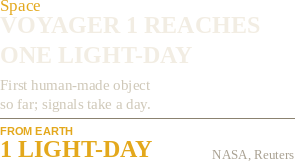
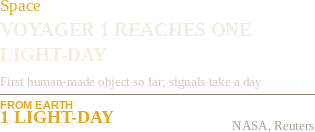
Crop hero: heads and handshake whole (976x420)

Changed region(s): [[0.0, 0.0, 1.0, 1.0], [0.7017, 0.9091, 1.0, 1.0], [0.8542, 0.1515, 0.8847, 0.1818]]

diff --git a/main.py b/main.py
@@ -18,51 +18,51 @@ RED = (192, 57, 43)
 RED_HI = (231, 76, 60)
 
 PHOTOS = [
-    ("hero_976x312.png", 24, 266),
-    ("gta_170x140.png", 24, 647),
-    ("akvan_170x140.png", 524, 647),
-    ("voyager_170x140.png", 24, 804),
-    ("hayabusa_170x140.png", 524, 804),
+    ("hero_976x420.png", 24, 219),
+    ("gta_150x110.png", 24, 690),
+    ("akvan_150x110.png", 524, 690),
+    ("voyager_150x110.png", 24, 834),
+    ("hayabusa_150x110.png", 524, 834),
 ]
 
 TEXTS = [
     ("t_volume.png", 449, 7),
-    ("t_masthead.png", 276, 33),
-    ("t_dateline.png", 341, 103),
-    ("t_hero_kicker.png", 24, 145),
-    ("t_chip.png", 842, 140),
-    ("t_hero_head.png", 24, 177),
-    ("t_deck.png", 25, 592),
-    ("t_arc.png", 336, 616),
-    ("t_card0.png", 206, 649),
-    ("t_card1.png", 706, 649),
-    ("t_card2.png", 206, 807),
-    ("t_card3.png", 706, 806),
+    ("t_masthead.png", 314, 31),
+    ("t_dateline.png", 362, 88),
+    ("t_hero_kicker.png", 24, 120),
+    ("t_chip.png", 842, 115),
+    ("t_hero_head.png", 24, 144),
+    ("t_deck.png", 25, 649),
+    ("t_arc.png", 336, 668),
+    ("t_card0.png", 186, 692),
+    ("t_card1.png", 686, 692),
+    ("t_card2.png", 186, 837),
+    ("t_card3.png", 686, 836),
     ("t_foot_l.png", 24, 985),
     ("t_foot_c.png", 311, 986),
     ("t_foot_r.png", 849, 985),
 ]
 
 HLINES = [
-    (24, 1000, 91, 1, HAIRLINE),
-    (24, 1000, 128, 1, RED_HI),
-    (24, 1000, 129, 2, RED),
-    (24, 1000, 635, 1, HAIRLINE),
-    (24, 1000, 795, 1, HAIRLINE),
-    (24, 1000, 974, 2, HAIRLINE),
+    (24, 1000, 79, 1, HAIRLINE),
+    (24, 1000, 108, 1, RED_HI),
+    (24, 1000, 109, 2, RED),
+    (24, 1000, 681, 1, HAIRLINE),
+    (24, 1000, 827, 1, HAIRLINE),
+    (24, 1000, 978, 2, HAIRLINE),
 ]
 
 VLINES = [
-    (512, 651, 789, HAIRLINE),
-    (512, 808, 965, HAIRLINE),
+    (512, 694, 822, HAIRLINE),
+    (512, 838, 969, HAIRLINE),
 ]
 
 OUTLINES = [
-    (24, 266, 999, 577),
-    (24, 647, 193, 786),
-    (524, 647, 693, 786),
-    (24, 804, 193, 943),
-    (524, 804, 693, 943),
+    (24, 219, 999, 638),
+    (24, 690, 173, 799),
+    (524, 690, 673, 799),
+    (24, 834, 173, 943),
+    (524, 834, 673, 943),
 ]
 
 
